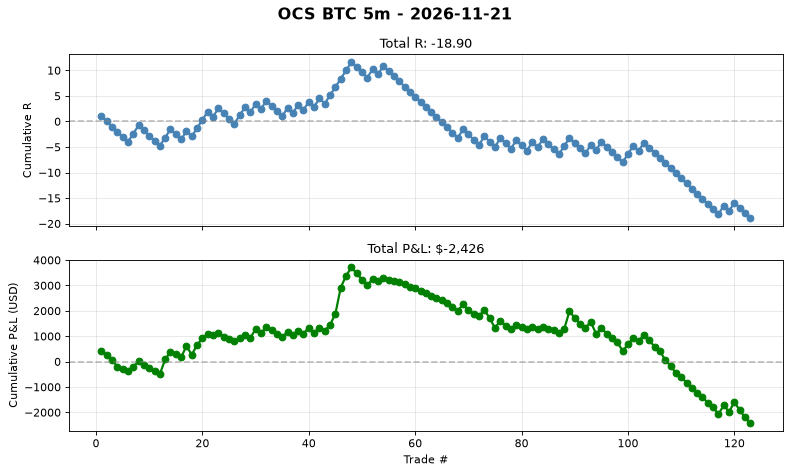
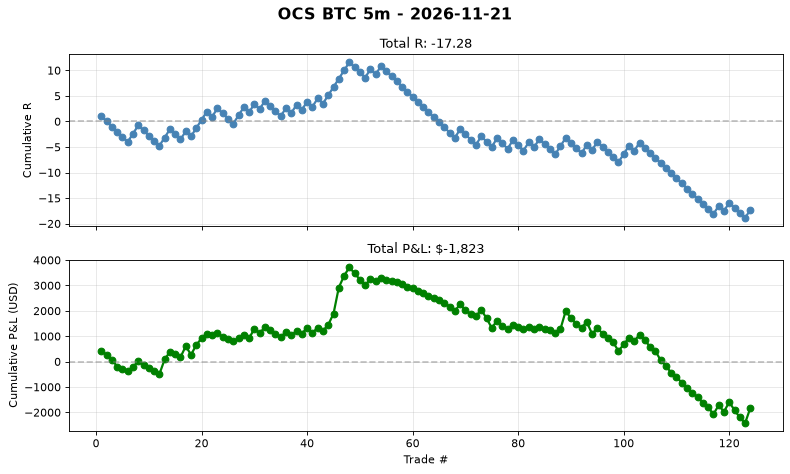
auto(ocs-btc): signal log 2026-11-21T02:39 trades=124

diff --git a/automation/reports/ocs_btc_5m/daily/2026-11-21.md b/automation/reports/ocs_btc_5m/daily/2026-11-21.md
@@ -2,4 +2,4 @@
 
 **No trades today.**
 
-Cumulative stats: 123 trades | WR 32.5% | avg R -0.154
+Cumulative stats: 124 trades | WR 33.1% | avg R -0.139
